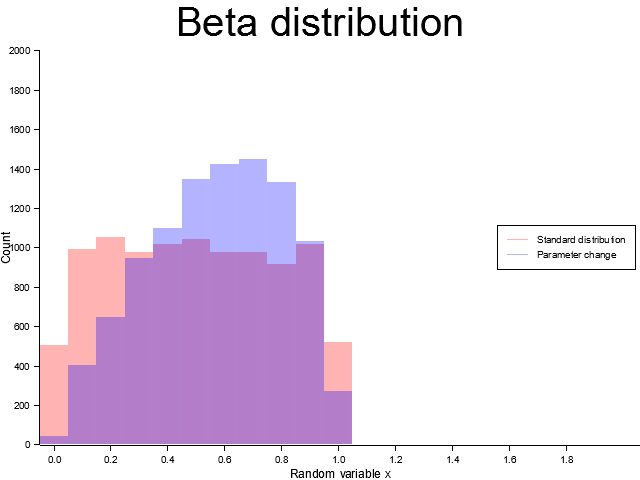
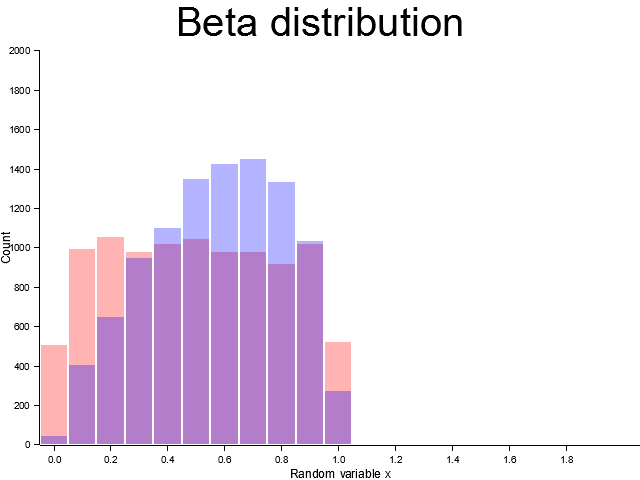
ベータ分布の修正

Changed region(s): [[0.7812, 0.4688, 1.0, 0.5625]]

diff --git a/examples/beta.rs b/examples/beta.rs
@@ -1,86 +1,35 @@
-use plotters::prelude::*;
-
-const FILE_NAME: &str = "examples/beta.png";
-const CAPTION: &str = "Beta distribution";
-
-const QUANTITY: usize = 10_000_usize;
+mod common_functions;
 
 fn main() -> Result<(), Box<dyn std::error::Error>> {
-    // キャンバスの生成
-    let root = BitMapBackend::new(FILE_NAME, (640, 480)).into_drawing_area();
-    root.fill(&WHITE).unwrap();
-
-    // キャンバスの設定
-    let mut chart = ChartBuilder::on(&root)
-        .x_label_area_size(35)
-        .y_label_area_size(40)
-        .caption(CAPTION, ("sans-serif", 50.0))
-        .build_cartesian_2d(
-            (0_f64..2_f64).step(0.1_f64).use_round().into_segmented(),
-            0u32..2_000u32,
-        )?;
-    // 軸の設定
-    chart
-        .configure_mesh()
-        .disable_x_mesh()
-        .disable_y_mesh()
-        .bold_line_style(&WHITE.mix(0.3))
-        .y_desc("Count")
-        .x_desc("Random variable x")
-        .axis_desc_style(("sans-serif", 15))
-        .draw()
-        .unwrap();
-
     // 乱数生成器
     let mut generator =
         rand_simple::Beta::new([1192u32, 765u32, 1543u32, 2003u32, 1867u32, 1688u32]);
 
     // 標準分布
-    println!("Initial state\n{}\n", generator);
-    let mut vec = Vec::<f64>::new();
-    for _ in 0..QUANTITY {
-        vec.push(generator.sample());
+    let mut standard_samples = Vec::<f64>::new();
+    for _ in 0..10000 {
+        standard_samples.push(generator.sample() as f64);
     }
-    let data: [f64; QUANTITY] = vec.try_into().unwrap();
-    chart
-        .draw_series(
-            Histogram::vertical(&chart)
-                .style(RED.mix(0.3).filled())
-                .margin(0)
-                .data(data.iter().map(|x: &f64| (*x, 1))),
-        )
-        .unwrap()
-        .label("Standard distribution")
-        .legend(|(x, y)| PathElement::new(vec![(x, y), (x + 20, y)], &RED.mix(0.3)));
 
-    // パラメータ変更
+    // パラメータを変更した分布
     let shape_alpha: f64 = 2f64;
     let shape_beta: f64 = 1.5f64;
     let _: Result<(f64, f64), &str> = generator.try_set_params(shape_alpha, shape_beta);
-    println!("Parameter change\n{}", generator);
-    let mut vec = Vec::<f64>::new();
-    for _ in 0..QUANTITY {
-        vec.push(generator.sample());
+    let mut custom_samples = Vec::<f64>::new();
+    for _ in 0..10000 {
+        custom_samples.push(generator.sample() as f64);
     }
-    let data: [f64; QUANTITY] = vec.try_into().unwrap();
-    chart
-        .draw_series(
-            Histogram::vertical(&chart)
-                .style(BLUE.mix(0.3).filled())
-                .margin(0)
-                .data(data.iter().map(|x: &f64| (*x, 1))),
-        )
-        .unwrap()
-        .label("Parameter change")
-        .legend(|(x, y)| PathElement::new(vec![(x, y), (x + 20, y)], &BLUE.mix(0.3)));
 
-    // 凡例の描画
-    chart
-        .configure_series_labels()
-        .border_style(&BLACK)
-        .background_style(&WHITE.mix(0.8))
-        .draw()
-        .unwrap();
+    // 乱数列ヒストグラムの描画
+    let _ = common_functions::draw_histgram(
+        "examples/beta.png",
+        "Beta distribution",
+        &standard_samples,
+        &custom_samples,
+        0f64..2f64,
+        0.1f64,
+        0..2_000,
+    );
 
     Ok(())
 }
